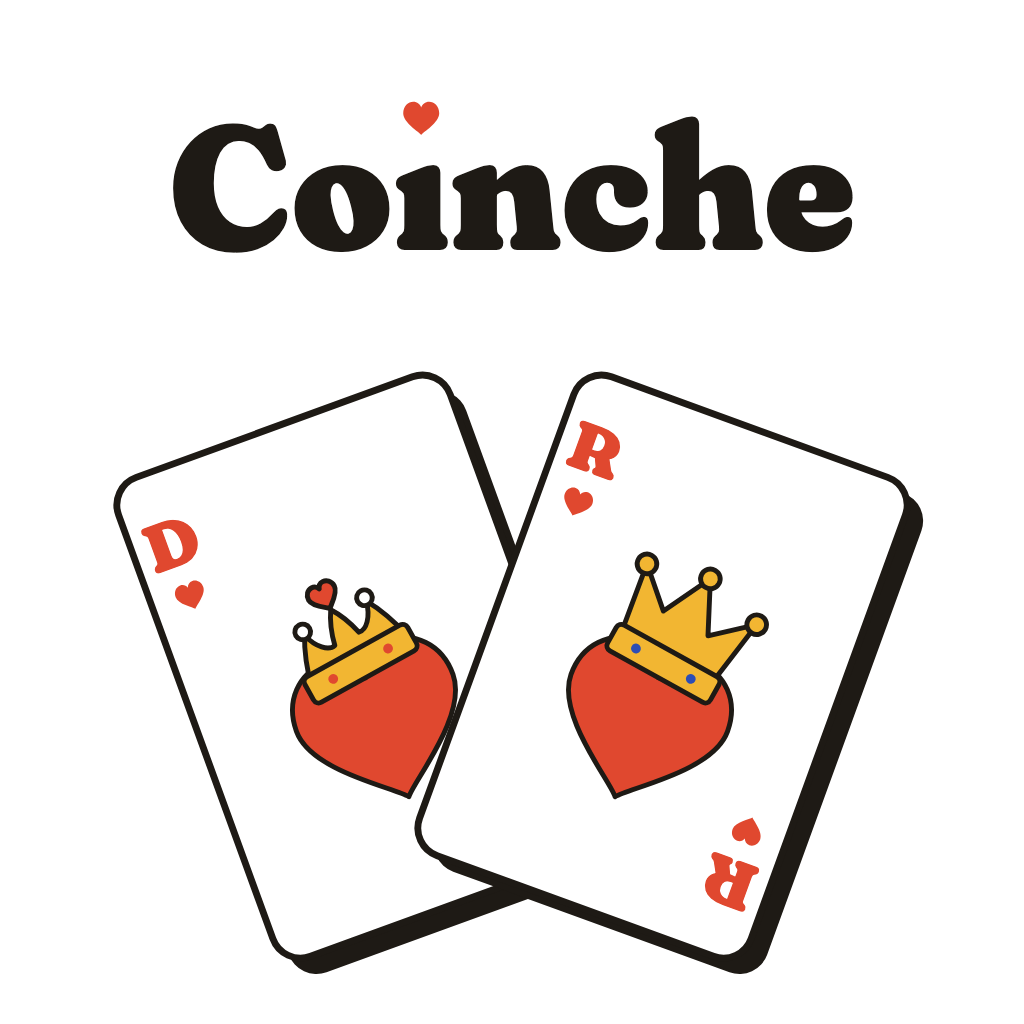
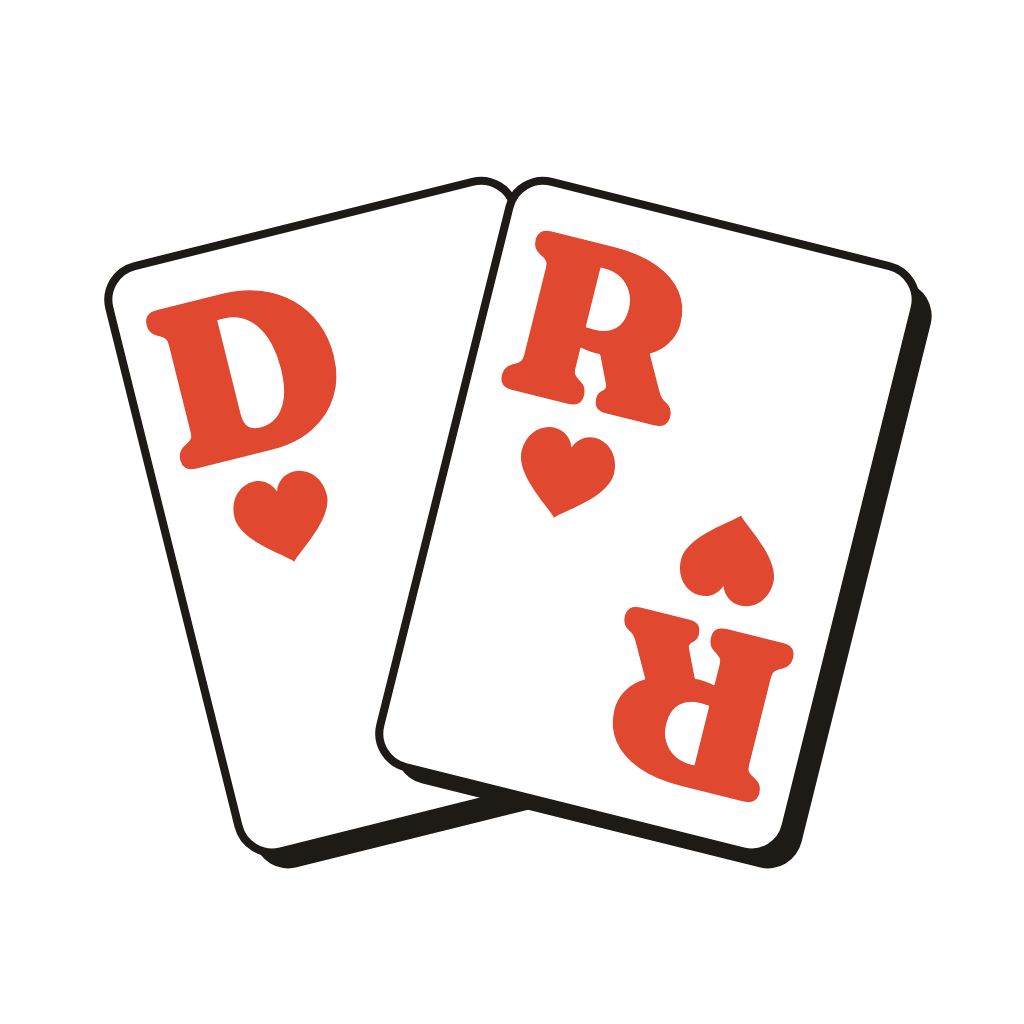
Fiche App Store 1.1 : textes, 5 captures, icône redessinée, build 4
- Fiche réécrite : nom et sous-titre sans "Strava" (guideline 2.3.7), mots-clés sans doublon,
  textes promotionnels, nouveautés de la 1.1, messages de lancement
- Captures refaites en mode démo (Fil, partie, fin de partie classée, Classements, profil),
  formats 6,3", 6,5", 6,9" et iPad 13", générées par store/screenshots/capture.sh
- Icône : dame et roi de coeur vus comme dans une main, sans texte ; splash un peu plus grand
- iOS : build 4

Changed region(s): [[0.0938, 0.0938, 0.9062, 0.9688], [0.375, 0.0938, 0.4375, 0.125]]

diff --git a/store/app-store.md b/store/app-store.md
@@ -1,43 +1,91 @@
 # Fiche App Store : Coinche (version 1.1, sociale)
 
-Textes prêts à coller dans App Store Connect. Limites Apple entre parenthèses.
+Textes prêts à coller dans App Store Connect. Limite Apple, puis longueur réelle, entre parenthèses.
 
-## Nom (30)
-Coinche : compteur & stats
+Règles suivies :
+- Aucun nom d'autre app dans la fiche (pas de "Strava") : guideline 2.3.7, motif de refus classique, et des caractères indexés gaspillés.
+- Mots-clés sans aucun mot déjà présent dans le nom ou le sous-titre (Apple les indexe déjà), séparés par des virgules sans espace.
+- Vouvoiement, comme le site et l'écran d'accueil.
 
-## Sous-titre (30)
-Le Strava de la belote coinchée
+## Nom (30, ici 28)
+Coinche : compteur de belote
+
+## Sous-titre (30, ici 26)
+Stats, amis et classements
 
 ## Texte promotionnel (170)
-Nouveau : taguez vos partenaires, la partie arrive sur leur profil. Fil de vos potes, bravos, classements, badges et bandes du bistrot !
+Modifiable à tout moment sans repasser en revue : à faire tourner selon l'actu.
+
+Lancement de la 1.1 (155) :
+Nouveau : la coinche devient sociale ! Taguez vos partenaires, suivez les parties de vos potes et grimpez au classement de votre bande en parties classées.
+
+Compétition (152) :
+Qui est le meilleur coincheur de la bande ? Parties classées, cote Elo, classements entre amis et dans votre ville. Fini les débats, place aux chiffres.
+
+Compteur (151) :
+Fini la feuille de marque au bistrot : l'app compte les points et la partie arrive sur le profil de chaque joueur. Gratuit, sans pub, même sans réseau.
+
+## Nouveautés de la version 1.1 (4000)
+La coinche devient sociale !
+
+• Comptes facultatifs : pseudo + mot de passe, ou Se connecter avec Apple.
+• Joueurs à la table : la partie arrive sur le profil de chacun, avec ses stats.
+• Invitez un pote qui n'a pas l'app : il récupère toutes ses parties en créant son compte.
+• Fil des parties de vos amis : bravos, commentaires, photo de la tablée, parties en direct.
+• Parties classées et cote Elo, classements entre amis, dans votre ville ou général.
+• 14 badges, défis du mois, records et récap de saison à partager.
+• Bandes : le club de votre bistrot, avec son classement et ses parties.
+
+Sans compte, l'app reste le compteur que vous connaissez.
 
 ## Description (4000)
 Comptez. Coinchez. Gagnez.
 
-Coinche compte les points de vos parties de belote coinchée et transforme vos soirées en saison : profils, stats, classements entre potes.
+Coinche compte les points de vos parties de belote coinchée et transforme vos soirées en vraie saison : profils, stats, badges et classements entre potes. Fini la feuille de marque et les calculs de tête au bistrot.
 
 COMPTEZ SANS CALCULER
-• Saisie d'une mène en quelques secondes : équipe qui prend, contrat (80 à 160, capot, générale), coinche ou surcoinche, fait ou chuté.
-• Score toujours lisible, courbe de la partie, annulation de la dernière mène.
-• Fonctionne sans réseau, au fond du bistrot.
+• Une mène saisie en quelques secondes : équipe qui prend, contrat (80 à 160, capot, générale), coinche ou surcoinche, fait ou chuté. L'app fait le reste.
+• Score lisible de loin, courbe de la partie, annulation de la dernière mène.
+• Objectif au choix : 1000, 1500, 2000 points ou libre.
+• Marche sans réseau, même au fond de la cave.
 
 TAGUEZ VOS PARTENAIRES
-• Ajoutez les joueurs à la table : un habitué en un tap, un pseudo, le QR code de son profil, ou juste un prénom.
-• La partie arrive sur le profil de chacun, avec ses stats.
+• Placez les joueurs à la table : un habitué en un tap, un pseudo, le QR code de son profil, ou juste un prénom.
+• La partie arrive sur le profil de chaque joueur, avec ses stats.
 • Un pote n'a pas l'app ? Il reçoit un lien et récupère toutes ses parties en créant son compte.
 
-LE STRAVA DE LA COINCHE
-• Fil des parties de vos potes, bravos et commentaires, photo de la tablée.
+VOTRE SAISON DE COINCHE
+• Fil des parties de vos amis : score, lieu, photo de la tablée, bravos et commentaires.
+• Parties en direct : suivez le score d'une partie en cours chez vos potes.
 • Profil complet : % de victoires, séries, forme, partenaires préférés, réussite par hauteur de contrat, records.
-• Parties classées entre amis : une cote Elo qui sépare vraiment les niveaux, classements entre amis, dans votre ville ou général.
-• Badges (Capot !, Remontada, Fanny, Pilier de bistrot…) et défis du mois.
-• Bandes : le club de votre bistrot ou de votre famille, avec son classement et ses parties.
+• 14 badges (Capot !, Remontada, Fanny, Pilier de bistrot…) et défis du mois.
 • Récap de votre saison à partager en story.
 
-Le compte est facultatif : sans compte, l'app reste un compteur 100 % local. Gratuit, sans publicité.
+QUI EST LE MEILLEUR ?
+• Parties classées entre amis : chacun voit l'enjeu avant de distribuer, et sa cote Elo bouge à la fin.
+• Classements entre amis, dans votre ville ou général, à la semaine, au mois ou à la saison.
+• Bandes : le club de votre bistrot, de votre famille ou de votre promo, avec son classement et ses parties.
 
-## Mots-clés (100)
-belote,coinche,compteur,points,cartes,score,stats,classement,amis,bistrot,jeu,contrée
+Le compte est facultatif : sans compte, l'app reste un simple compteur, 100 % sur votre téléphone. Gratuit, sans publicité.
+
+## Mots-clés (100, ici 94)
+contrée,points,score,carte,jeu,feuille,marque,partie,calcul,atout,capot,elo,équipe,carnet,club
+
+## Lancement (hors App Store)
+
+Message WhatsApp aux potes :
+
+J'ai sorti mon app de coinche sur l'App Store 🃏 Elle compte les points, et chaque partie arrive sur ton profil avec tes stats et ta cote Elo. On la teste à la prochaine partie ? [lien App Store]
+
+Post LinkedIn :
+
+Au bistrot, les points de coinche se comptent encore sur un coin de nappe.
+
+Coinche est maintenant sur l'App Store : un compteur de points pensé pour la table, et surtout une app sociale autour du jeu. On tague ses partenaires, la partie arrive sur leur profil, on se lance des parties classées avec une vraie cote Elo, on crée la bande de son bistrot.
+
+Conçue et développée en quelques semaines, en parallèle de mes études : React Native, Supabase, et beaucoup de parties de test.
+
+Vous jouez à la coinche (ou à la belote contrée) ? Je prends tous les retours : [lien App Store]
 
 ## URL
 - Assistance : https://arthczer-555.github.io/coinche/

diff --git a/README.md b/README.md
@@ -210,7 +210,9 @@ xed ios                            # puis Product > Archive, destination "Any iO
 
 ### Captures App Store
 
-`store/screenshots/iphone-6.5/` : 3 captures iPhone 6,5" (1284 x 2778, simulateur iPhone 13 Pro Max), le format demandé par App Store Connect. `store/screenshots/iphone-6.9/` : les mêmes en 6,9" (1320 x 2868, iPhone 17 Pro Max). `store/screenshots/ipad-13/` : les mêmes en iPad 13" (2064 x 2752, simulateur iPad Pro 13" M5, portrait ; poignée de redimensionnement de fenêtre iPadOS 26 effacée en bas à droite). Build Release. Données fictives cohérentes générées par `store/screenshots/seed.mjs` (état AsyncStorage `coinche-games` à copier dans `Library/Application Support/com.czernichow.coinche/RCTAsyncLocalStorage_V1/manifest.json` du conteneur de l'app), écrans ouverts par deep link (`coinche:///feed`, `coinche:///game/<id>`, `coinche:///game/<id>/result`).
+Version 1.1, 5 captures dans cet ordre : Fil, partie en cours, fin de partie classée (gains d'Elo), Classements, profil d'un ami (Léa). `store/screenshots/iphone-6.5/` (1284 x 2778, simulateur iPhone 13 Pro Max), `iphone-6.9/` (1320 x 2868, iPhone 17 Pro Max), `iphone-6.3/` (1206 x 2622, iPhone 17 Pro), `ipad-13/` (2064 x 2752, iPad Pro 13" M5, portrait). Simulateurs dédiés "Coinche Shots 6.5", "Coinche Shots 6.9" et "Coinche Shots iPad 13".
+
+Build Release en **mode démo** (`EXPO_PUBLIC_DEMO=1 npx expo run:ios --configuration Release --device <udid> --no-bundler`, puis `xcrun simctl install` du même `.app` sur les autres simulateurs), puis `store/screenshots/capture.sh <udid> <dossier>` fait le reste : approuve le schéma `coinche` (deep links sans confirmation), amorce la démo, retouche la partie en cours dans le stockage local (Alex & Léa mènent 610 à 490), fige la barre d'état à 21:41, ouvre chaque écran par deep link, enregistre en RGB sans transparence et efface sur iPad la poignée de redimensionnement d'iPadOS 26.
 
 ### Écrans supportés
 
@@ -237,7 +239,7 @@ Le design compte. Direction **"Bistrot"** : l'univers "tapis de cartes" crème e
 - Titres et scores en **Fraunces Black arrondie** (instance statique SOFT 100 / WONK 1 générée depuis la police variable, dans `assets/fonts/`), texte courant en **Figtree** (la famille suit le `fontWeight`, géré dans `ThemedText`).
 - Tab bar flottante noire en pilule avec le bouton "Jouer" (pique rouge) au centre.
 - Thème clair uniquement pour l'instant (`userInterfaceStyle: light`). Tous les tokens sont dans `src/constants/theme.ts`.
-- Icône de l'app : dame et roi de coeur en éventail, chacun avec un gros coeur couronné (diadème pour la dame, couronne pour le roi), "Coinche" en Fraunces au-dessus avec un coeur à la place du point du i, sur fond blanc. Même style autocollant que l'app (contours encre, ombre décalée). `assets/images/icon.png`, déclinée en foreground/monochrome Android, splash (composition transparente sur le fond crème) et favicon (les deux cartes seules, le titre étant illisible en 48 px).
+- Icône de l'app : la dame et le roi de coeur en éventail, vus comme dans une main : les index des coins en grand (D et R en Fraunces rouge, un coeur dessous, répétés tête-bêche en bas), cartes blanches à contour encre et ombre décalée (style autocollant de l'app), sur fond blanc, sans texte (iOS affiche déjà le nom sous l'icône). `assets/images/icon.png`, déclinée en foreground/monochrome Android, splash (dessin transparent sur le fond crème) et favicon.
 
 ## Roadmap ("Strava de la coinche")
 
